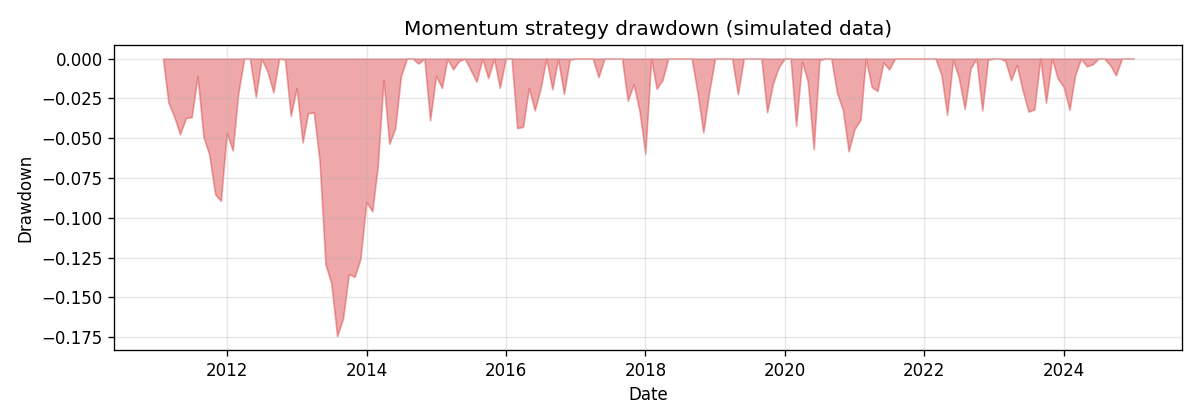
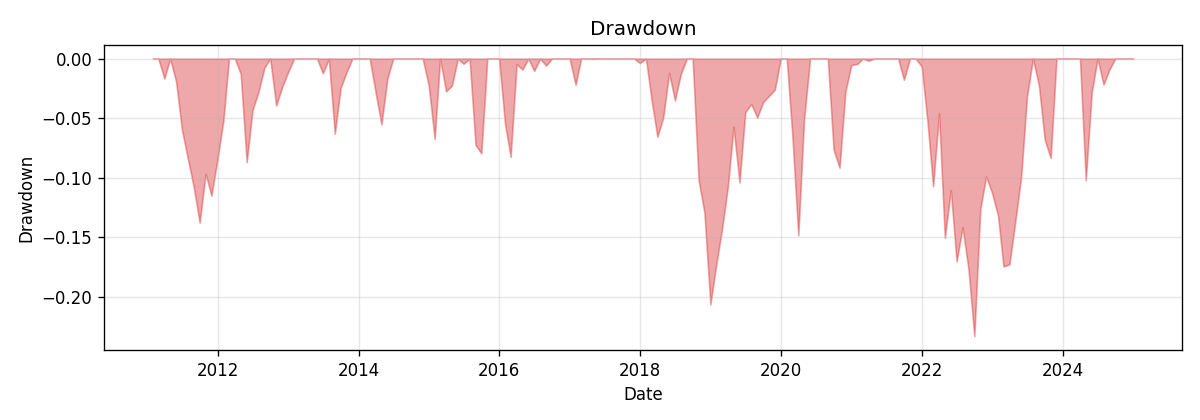
docs: regenerate example charts on live market data

diff --git a/README.md b/README.md
@@ -35,7 +35,7 @@ that rule would have behaved.
 ## Example output
 
 The charts below come straight from the plotting code in this repo. The
-committed versions here were generated on simulated data, so they show what the
+committed versions here were generated on live market data pulled with yfinance, so they show what the
 output looks like. Run `python scripts/run_backtest.py --save-plots` to
 reproduce them on live market data.
 